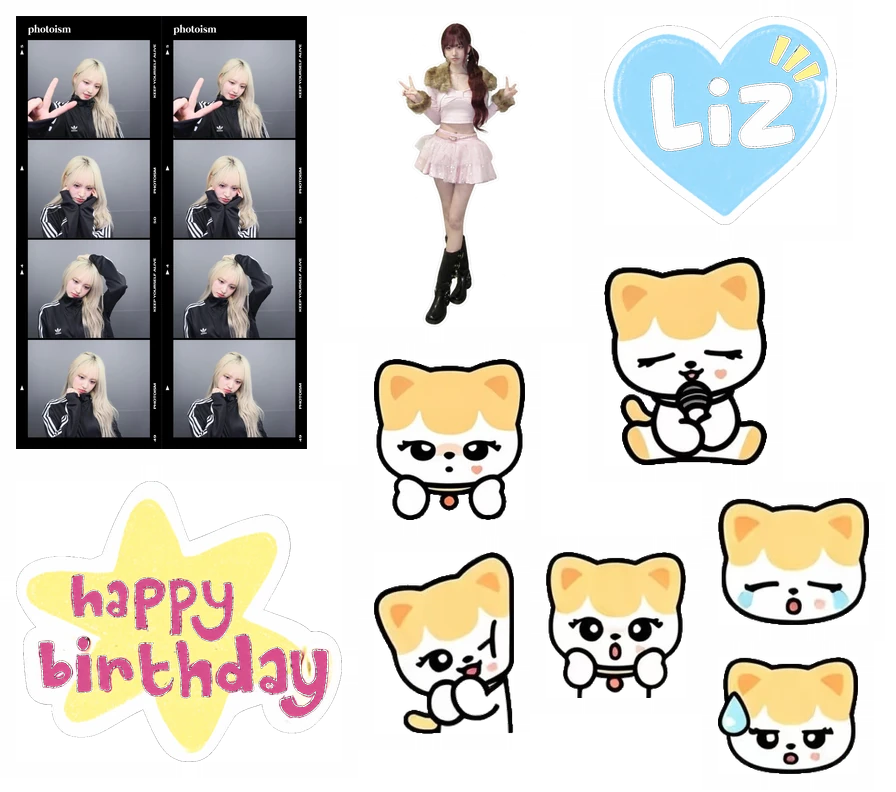
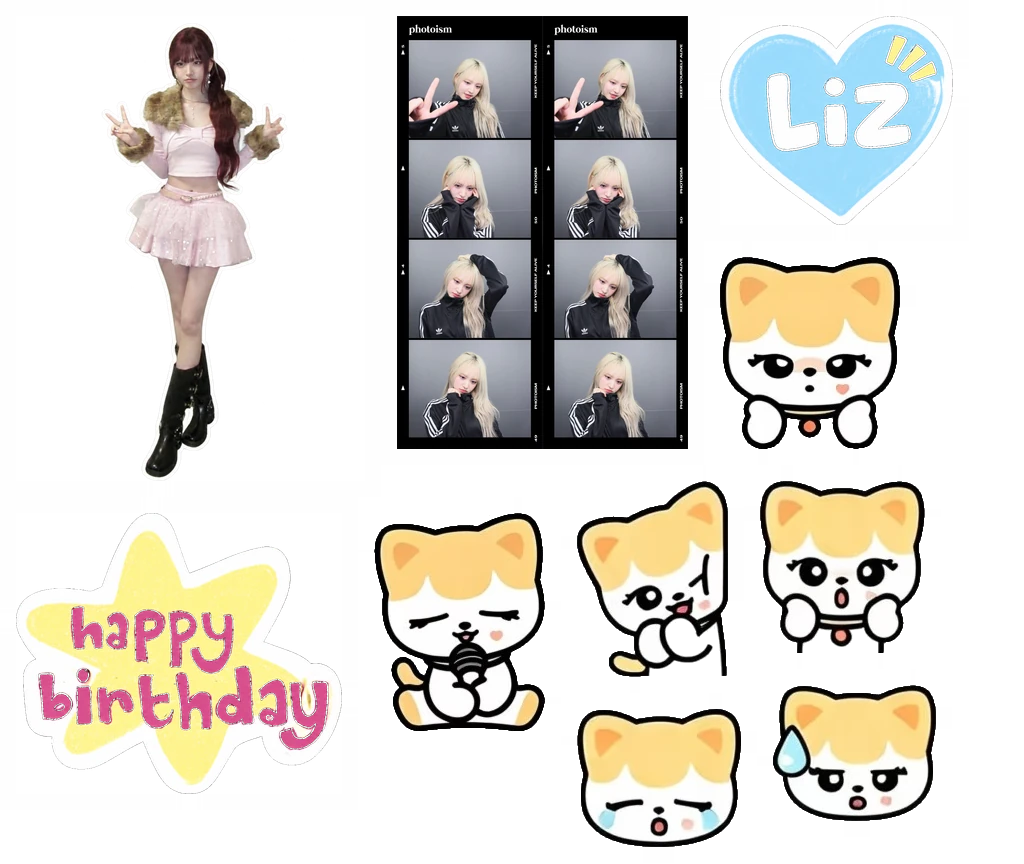
feat: enlarge Liz door decals

diff --git a/src/scene/decalSpecs.ts b/src/scene/decalSpecs.ts
@@ -50,20 +50,20 @@ export const DOOR2_INNER_DECALS: readonly DecalSpec[] = [
   { id: 'birthday', url: '/assets/obj2/liz-door/happy-birthday.png', left: 0.22, top: 0.025, width: 0.28, rot: -3, draggable: true },
   { id: 'liz-heart', url: '/assets/obj2/liz-door/liz-heart.png', left: 0.55, top: 0.035, width: 0.2, rot: 4, draggable: true },
 
-  // 内侧内容组绕 Y 轴镜像：较小的 left 会落在观众视角的右侧。
-  // 人物因此与基本信息卡片左右并列，既完整可见，也不压住卡片文字。
-  { id: 'liz-cutout', url: '/assets/obj2/liz-door/39ae5202-5f40-4047-9bc5-704e020d6a88.png', left: 0.02, top: 0.3, width: 0.2, rot: -2, draggable: true },
-
   // 原三宫格位置改用上传的原始四宫格照片，保留独立贴花与白色描边效果。
   { id: 'four-grid', url: '/assets/obj2/liz-door/four-grid.jpg', left: 0.62, top: 0.46, width: 0.25, rot: 2, draggable: true },
 
   // 六张橙猫分散在余白与底部区域，避免遮挡主卡、人物和打字机。
-  { id: 'cat-front', url: '/assets/obj2/liz-door/01_orange_cat_front.png', left: 0.06, top: 0.54, width: 0.13, rot: -5, draggable: true },
-  { id: 'cat-singing', url: '/assets/obj2/liz-door/02_orange_cat_singing.png', left: 0.78, top: 0.16, width: 0.14, rot: 6, draggable: true },
-  { id: 'cat-surprised', url: '/assets/obj2/liz-door/03_orange_cat_surprised.png', left: 0.5, top: 0.56, width: 0.12, rot: 4, draggable: true },
-  { id: 'cat-tears', url: '/assets/obj2/liz-door/04_orange_cat_tears.png', left: 0.25, top: 0.68, width: 0.13, rot: -4, draggable: true },
-  { id: 'cat-front2', url: '/assets/obj2/liz-door/05_orange_cat_front2.png', left: 0.7, top: 0.7, width: 0.12, rot: 5, draggable: true },
-  { id: 'cat-music', url: '/assets/obj2/liz-door/06_orange_cat_music.png', left: 0.79, top: 0.48, width: 0.12, rot: -6, draggable: true },
+  { id: 'cat-front', url: '/assets/obj2/liz-door/01_orange_cat_front.png', left: 0.06, top: 0.54, width: 0.208, rot: -5, draggable: true },
+  { id: 'cat-singing', url: '/assets/obj2/liz-door/02_orange_cat_singing.png', left: 0.75, top: 0.16, width: 0.224, rot: 6, draggable: true },
+  { id: 'cat-surprised', url: '/assets/obj2/liz-door/03_orange_cat_surprised.png', left: 0.5, top: 0.56, width: 0.192, rot: 4, draggable: true },
+  { id: 'cat-tears', url: '/assets/obj2/liz-door/04_orange_cat_tears.png', left: 0.25, top: 0.68, width: 0.208, rot: -4, draggable: true },
+  { id: 'cat-front2', url: '/assets/obj2/liz-door/05_orange_cat_front2.png', left: 0.7, top: 0.7, width: 0.192, rot: 5, draggable: true },
+  { id: 'cat-music', url: '/assets/obj2/liz-door/06_orange_cat_music.png', left: 0.76, top: 0.48, width: 0.192, rot: -6, draggable: true },
+
+  // 内侧内容组绕 Y 轴镜像：较小的 left 会落在观众视角的右侧。
+  // 人物放在最后，使其保持在其他贴花之上，同时与基本信息卡片左右并列。
+  { id: 'liz-cutout', url: '/assets/obj2/liz-door/39ae5202-5f40-4047-9bc5-704e020d6a88.png', left: 0, top: 0.3, width: 0.3, rot: -2, draggable: true },
 ]
 
 /* ============================================================================

diff --git a/src/experience/assetManifest.ts b/src/experience/assetManifest.ts
@@ -190,7 +190,7 @@ const HERO_PROPS: AssetEntry[] = [
  * 运行时不会逐张请求。因此 Loader 也只等待这一个真实请求。
  */
 const HERO_DECALS: AssetEntry[] = [
-  decal('hero.decalAtlas', '/assets/obj2/doorDecals.webp', 139726, '291f091a', true),
+  decal('hero.decalAtlas', '/assets/obj2/doorDecals.webp', 139776, '0edcadaa', true),
 ]
 
 /**
